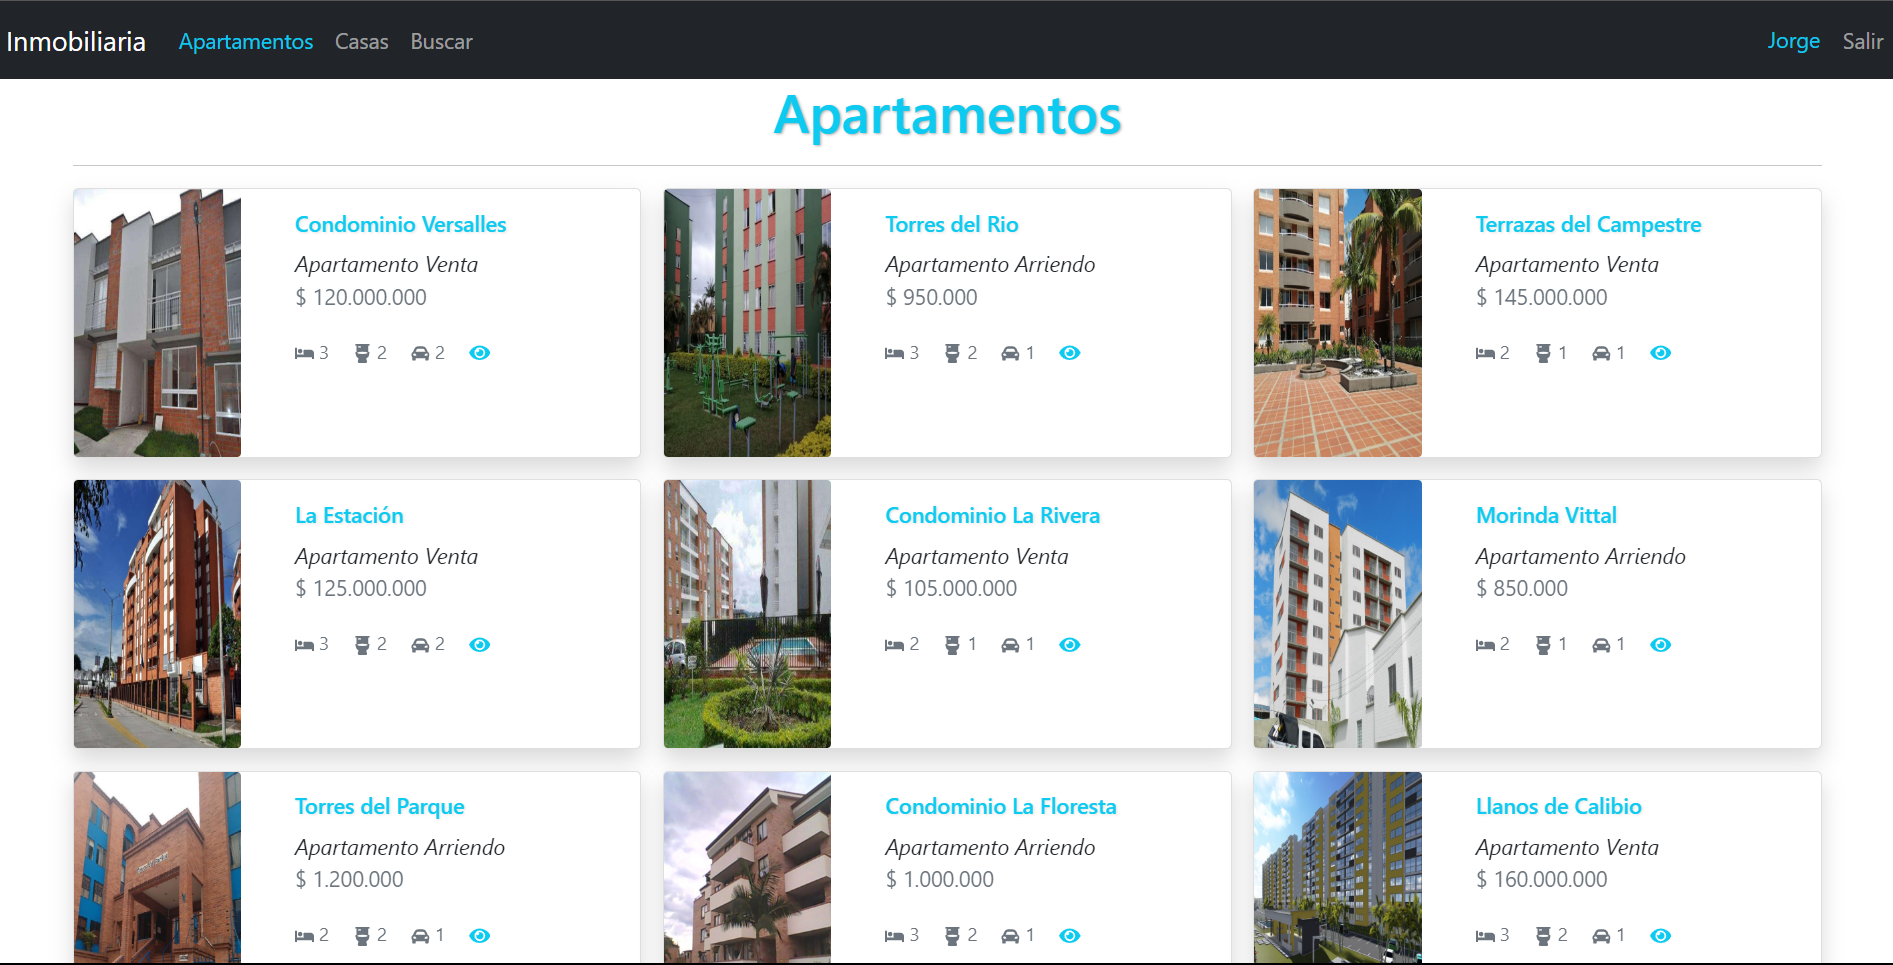
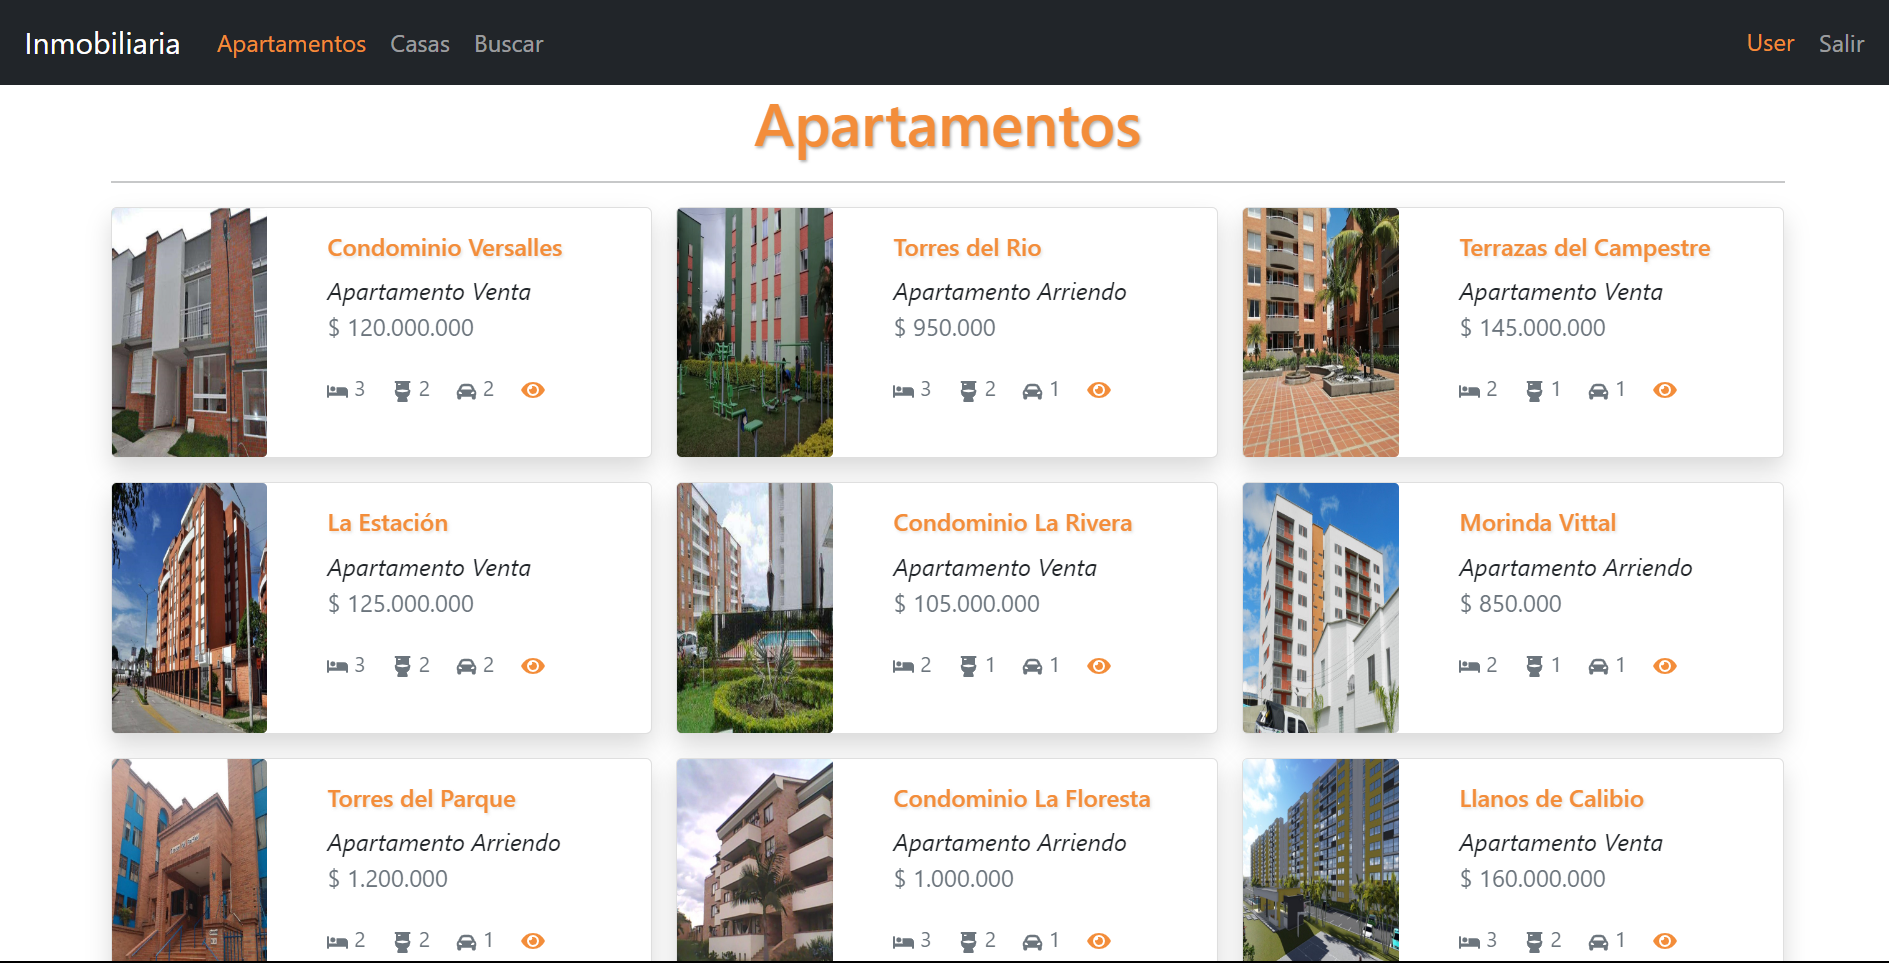
main

Changed region(s): [[0.0, 0.0312, 1.0, 1.0]]

diff --git a/src/estilos.css b/src/estilos.css
@@ -1,5 +1,8 @@
 :root {
-    --main-color: rgba(var(--bs-info-rgb))
+    --dark-color: #212529;
+    --main-color: #f38d3a;
+    --white-color: #fff;
+    /* --main-color: rgba(var(--bs-info-rgb)); */
 }
 
 a {
@@ -18,4 +21,32 @@ h1,h3 {
 h6 {
     color: var(--main-color)!important;
     text-shadow: 1px 1px 2px rgba(200,200,200,0.5);
+}
+span {
+    color: var(--main-color)!important;
+}
+
+.btn-login {
+    color: var(--main-color);
+    font-weight: bold!important;
+    border-color: var(--main-color);
+    text-shadow: 1px 1px 1px rgba(150,150,150,0.5);
+    letter-spacing: 0.5px;
+}
+.btn-login:hover {
+    color: var(--white-color);
+    background-color: var(--main-color);
+}
+.btn-inmueble {
+    color: var(--main-color);
+    font-weight: bold!important;
+    background-color: var(--white-color);
+    border-color: var(--main-color);
+    text-shadow: 1px 1px 1px rgba(150,150,150,0.5);
+    letter-spacing: 0.5px;
+}
+.btn-inmueble:hover {
+    color: var(--dark-color);
+    font-weight: bold!important;
+    background-color: var(--main-color);
 }

diff --git a/src/components/login/LoginScreen.js b/src/components/login/LoginScreen.js
@@ -14,7 +14,7 @@ export const LoginScreen = () => {
 
       const action = {
         type: types.login,
-        payload: { name: 'Jorge' }
+        payload: { name: 'User' }
       }
 
       dispatch(action);
@@ -32,9 +32,11 @@ export const LoginScreen = () => {
         <hr />
         <h1><FaHouseUser /><FaBuilding /><FaStoreAlt /></h1>
         <br/>
-        <button className='btn btn-outline-info shadow-sm' onClick={ handleLogin }>
-          Inmuebles
-        </button>
+        <div class="d-grid gap-2 col-4 mx-auto">
+          <button className='btn-login btn btn-lg btn-outline-warning shadow-sm' onClick={ handleLogin }>
+            Inmuebles
+          </button>
+        </div>
     </div>
   )
 }

diff --git a/src/components/inmueble/InmuebleScreen.js b/src/components/inmueble/InmuebleScreen.js
@@ -69,17 +69,12 @@ export const InmuebleScreen = () => {
         <ul className='list-group list-group-flush'>
           <li className='list-group-item'> <b>Ciudad:</b> { ciudad }</li>
           <li className='list-group-item'><b>Ubicación:</b>{ ubicacion }</li>
-
-
         </ul>
-
-        <button
-            className='btn btn-outline-info'
-            onClick={ handleReturn }
-        >
-          Regresar
-        </button>
-
+        <div class="d-grid gap-2 col-4 mx-md-0">
+          <button className='btn-inmueble btn btn-md btn-warning' onClick={ handleReturn }>
+            Regresar
+          </button>
+        </div>
       </div>
 
     </div>

diff --git a/src/components/ui/Navbar.js b/src/components/ui/Navbar.js
@@ -35,7 +35,7 @@ export const Navbar = () => {
 
                 <div className="navbar-collapse collapse w-100 order-3 dual-collapse2 d-flex justify-content-end">
                     <ul className="navbar-nav ml-auto">
-                        <span className='nav-item nav-link text-info'>{user.name}</span>
+                        <span className='nav-item nav-link text'>{user.name}</span>
                         <button className="nav-item nav-link btn" onClick={ handleLogout }>Salir</button>
                     </ul>
                 </div>
